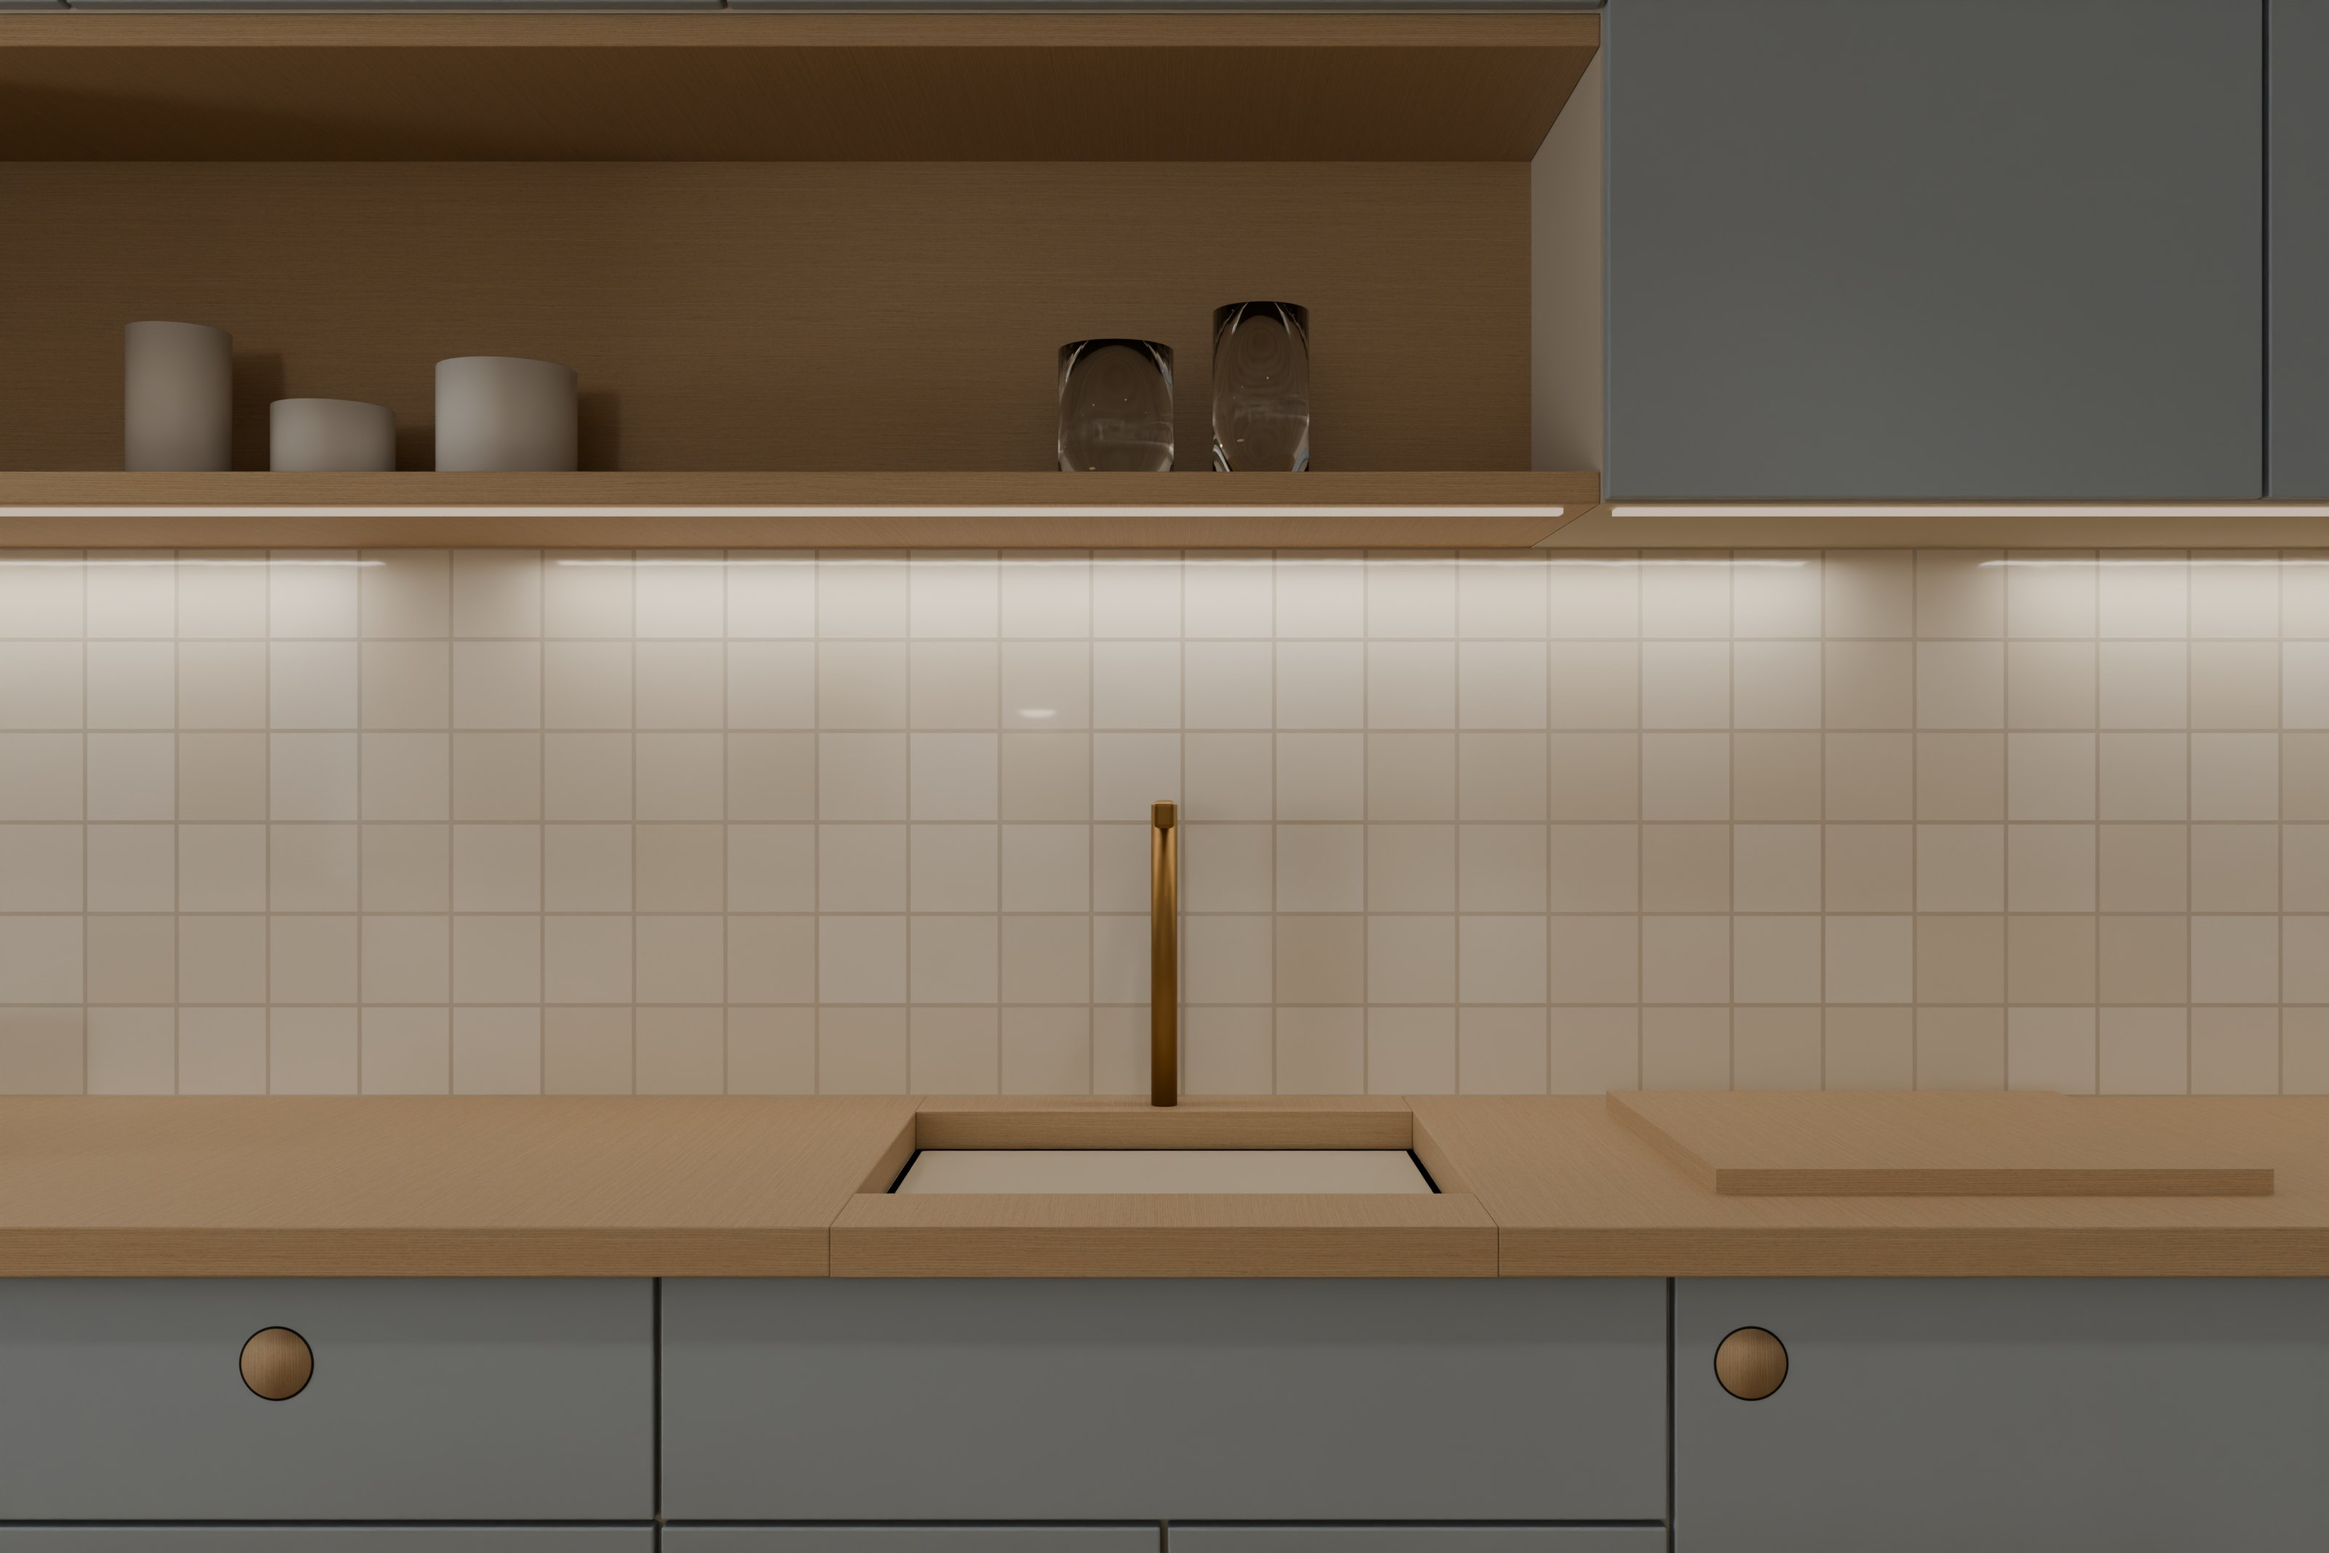
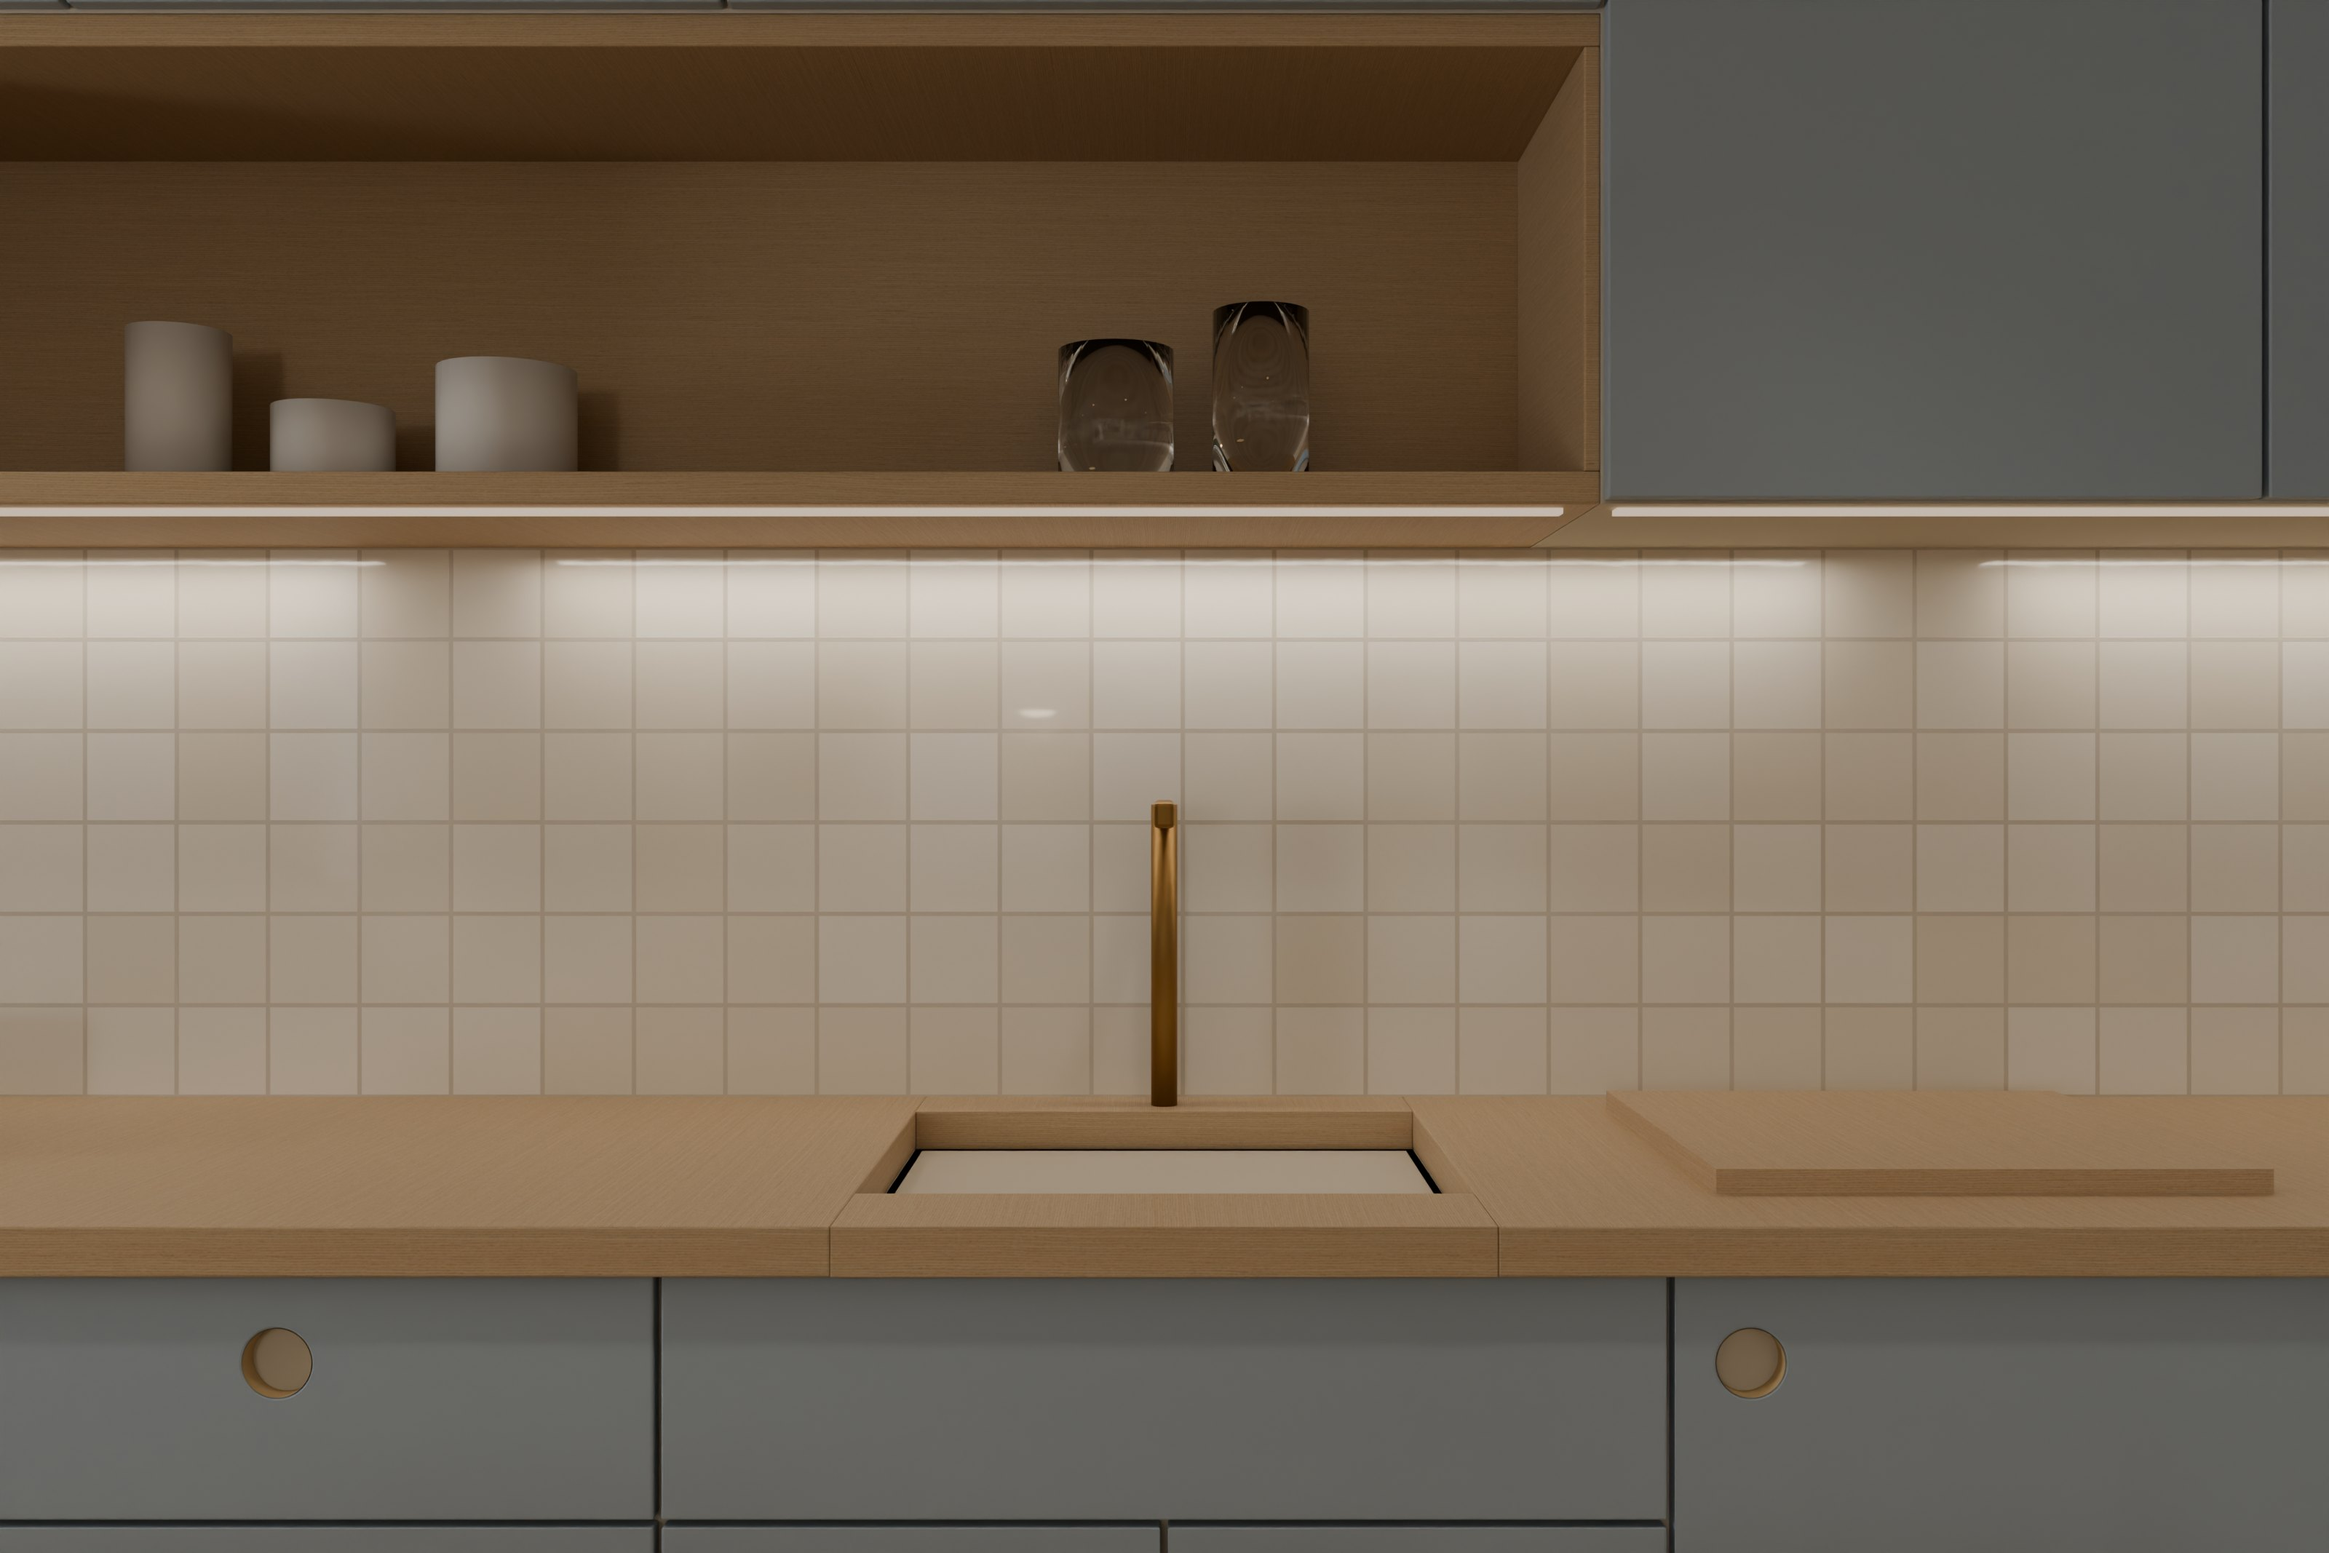
Cozinha: puxadores Cubro

Changed region(s): [[0.6562, 0.0309, 0.6875, 0.3093], [0.7188, 0.866, 0.7812, 0.8969], [0.0938, 0.866, 0.1562, 0.8969]]

diff --git a/index.html b/index.html
@@ -1015,20 +1015,20 @@ html body img.logo{background:none!important;box-shadow:none!important;border:0!
 
         <div class="sub ver"><h3>Cozinha</h3><span>14,5 m²</span></div>
         <p class="txt ver">A bancada em U ocupa três paredes: a norte, com o lava-loiça e a placa, e os dois lados, um junto às colunas e outro debaixo da janela. Tem tampo de carvalho, frentes em azul-claro e azulejo marfim entre a bancada e os armários. A arrumação vai até ao teto. Uma das colunas guarda o termoacumulador e o exaustor aproveita a saída de fumos existente.</p>
-        <figure class="g12 ver"><img width="3200" height="2134" src="img/cozinha-bancada.jpg" loading="lazy" decoding="async" alt="A cozinha: frentes azul-claro, tampo de carvalho, nicho de carvalho e azulejo marfim."><figcaption class="etq">Bancada norte</figcaption></figure>
-        <figure class="g6 ver"><img width="3200" height="2134" src="img/cozinha-janela.jpg" loading="lazy" decoding="async" alt="A cozinha vista da janela, com as colunas até ao teto."><figcaption class="etq">Lado da janela</figcaption></figure>
-        <figure class="g6 ver"><img width="3200" height="2134" src="img/cozinha-lava-loica.jpg" loading="lazy" decoding="async" alt="O lava-loiça embutido no tampo de carvalho, com torneira de latão."><figcaption class="etq">Lava-loiça</figcaption></figure>
+        <figure class="g12 ver"><img width="3200" height="2134" src="img/cozinha-bancada.jpg?v=5" loading="lazy" decoding="async" alt="A cozinha: frentes azul-claro, tampo de carvalho, nicho de carvalho e azulejo marfim."><figcaption class="etq">Bancada norte</figcaption></figure>
+        <figure class="g6 ver"><img width="3200" height="2134" src="img/cozinha-janela.jpg?v=5" loading="lazy" decoding="async" alt="A cozinha vista da janela, com as colunas até ao teto."><figcaption class="etq">Lado da janela</figcaption></figure>
+        <figure class="g6 ver"><img width="3200" height="2134" src="img/cozinha-lava-loica.jpg?v=5" loading="lazy" decoding="async" alt="O lava-loiça embutido no tampo de carvalho, com torneira de latão."><figcaption class="etq">Lava-loiça</figcaption></figure>
         <div class="antes-depois fim">
           <div class="ad-cab ver"><h4>A cozinha existente e a proposta</h4><p>Escolha uma vista e mova o separador para comparar. À esquerda, a cozinha existente, fotografada em julho de 2026; à direita, a proposta.</p></div>
           <div class="vistas" role="group" aria-label="Vistas da cozinha"><button type="button" aria-pressed="true" data-vista="0">Da sala</button><button type="button" aria-pressed="false" data-vista="1">Do lava&#8209;loiça</button><button type="button" aria-pressed="false" data-vista="2">Da lavandaria</button></div>
           <div class="comparas uma"><figure class="compara ver" data-vista="0">
-          <div class="janela"><img width="1600" height="1067" src="img/hoje-arco.jpg" decoding="async" alt="Fotografia de hoje: a cozinha de madeira vista da sala, pelo arco."><img width="1600" height="1067" class="prop" src="img/proposta-arco.jpg" decoding="async" alt="Proposta: a cozinha vista da sala, com frentes azul-claro e a mesa de carvalho."><span class="rot e">Existente</span><span class="rot d">Proposta</span><span class="fio" aria-hidden="true"></span><input type="range" min="0" max="100" value="50" aria-label="Comparar o existente com a proposta: a cozinha vista da sala"></div>
+          <div class="janela"><img width="1600" height="1067" src="img/hoje-arco.jpg" decoding="async" alt="Fotografia de hoje: a cozinha de madeira vista da sala, pelo arco."><img width="1600" height="1067" class="prop" src="img/proposta-arco.jpg?v=5" decoding="async" alt="Proposta: a cozinha vista da sala, com frentes azul-claro e a mesa de carvalho."><span class="rot e">Existente</span><span class="rot d">Proposta</span><span class="fio" aria-hidden="true"></span><input type="range" min="0" max="100" value="50" aria-label="Comparar o existente com a proposta: a cozinha vista da sala"></div>
           <figcaption><b>A cozinha vista da sala.</b></figcaption>
         </figure><figure class="compara ver" data-vista="1" hidden>
-          <div class="janela"><img width="1600" height="1067" src="img/hoje-lava-loica.jpg" decoding="async" alt="Fotografia de hoje: o canto do lava-loiça, com armários de madeira e bancada clara."><img width="1600" height="1067" class="prop" src="img/proposta-lava-loica.jpg" decoding="async" alt="Proposta: a bancada com frentes azul-claro, tampo de carvalho e azulejo marfim."><span class="rot e">Existente</span><span class="rot d">Proposta</span><span class="fio" aria-hidden="true"></span><input type="range" min="0" max="100" value="50" aria-label="Comparar o existente com a proposta: a bancada do lava-loiça"></div>
+          <div class="janela"><img width="1600" height="1067" src="img/hoje-lava-loica.jpg" decoding="async" alt="Fotografia de hoje: o canto do lava-loiça, com armários de madeira e bancada clara."><img width="1600" height="1067" class="prop" src="img/proposta-lava-loica.jpg?v=5" decoding="async" alt="Proposta: a bancada com frentes azul-claro, tampo de carvalho e azulejo marfim."><span class="rot e">Existente</span><span class="rot d">Proposta</span><span class="fio" aria-hidden="true"></span><input type="range" min="0" max="100" value="50" aria-label="Comparar o existente com a proposta: a bancada do lava-loiça"></div>
           <figcaption><b>A bancada do lava-loiça.</b></figcaption>
         </figure><figure class="compara ver" data-vista="2" hidden>
-          <div class="janela"><img width="1600" height="1067" src="img/hoje-janela.jpg" decoding="async" alt="Fotografia de hoje: a parede da máquina de lavar roupa, com armários de madeira."><img width="1600" height="1067" class="prop" src="img/proposta-janela.jpg" decoding="async" alt="Proposta: a mesma parede, com armários azul-claro, nicho de carvalho e colunas até ao teto."><span class="rot e">Existente</span><span class="rot d">Proposta</span><span class="fio" aria-hidden="true"></span><input type="range" min="0" max="100" value="50" aria-label="Comparar o existente com a proposta: a parede da máquina de lavar roupa"></div>
+          <div class="janela"><img width="1600" height="1067" src="img/hoje-janela.jpg" decoding="async" alt="Fotografia de hoje: a parede da máquina de lavar roupa, com armários de madeira."><img width="1600" height="1067" class="prop" src="img/proposta-janela.jpg?v=5" decoding="async" alt="Proposta: a mesma parede, com armários azul-claro, nicho de carvalho e colunas até ao teto."><span class="rot e">Existente</span><span class="rot d">Proposta</span><span class="fio" aria-hidden="true"></span><input type="range" min="0" max="100" value="50" aria-label="Comparar o existente com a proposta: a parede da máquina de lavar roupa"></div>
           <figcaption><b>A parede da máquina de lavar roupa.</b></figcaption>
         </figure></div>
         </div>
